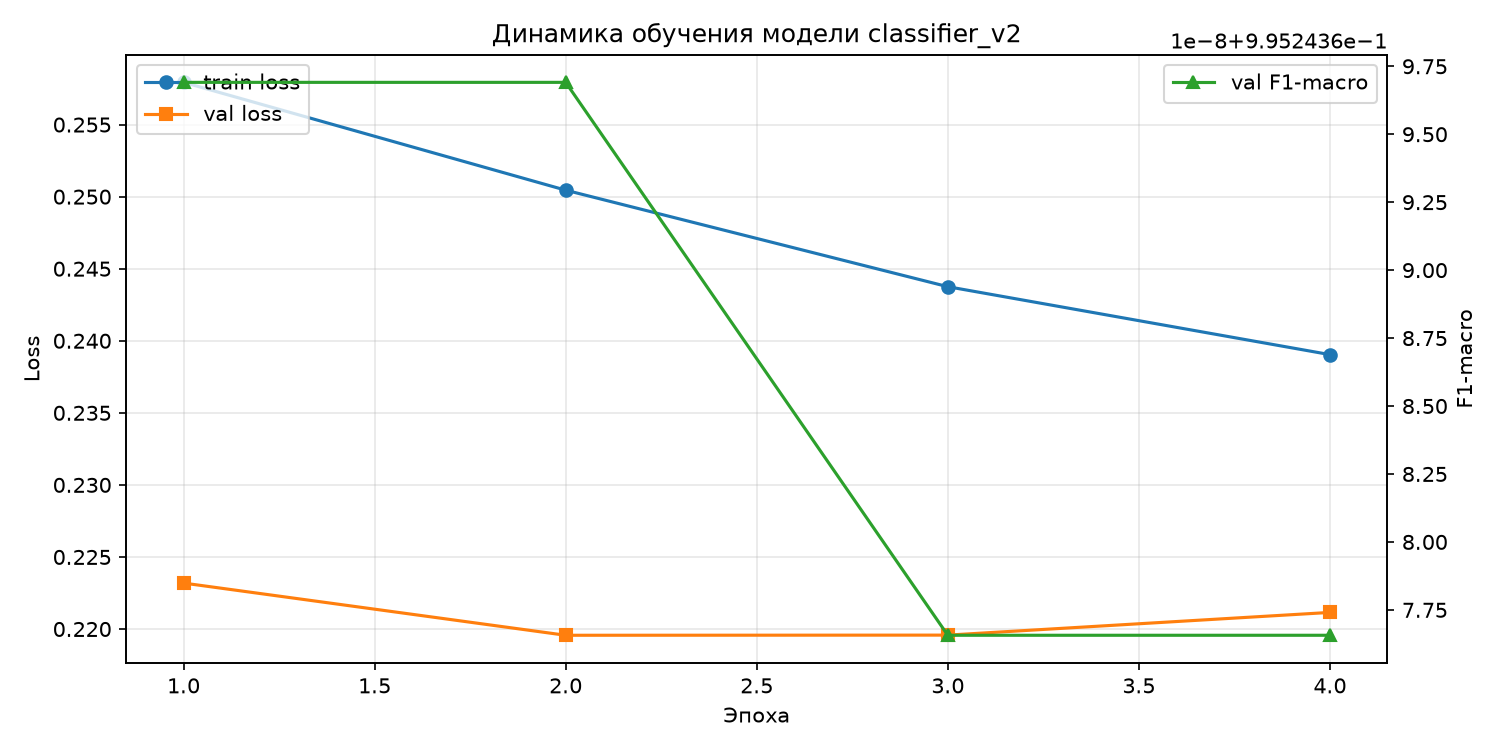
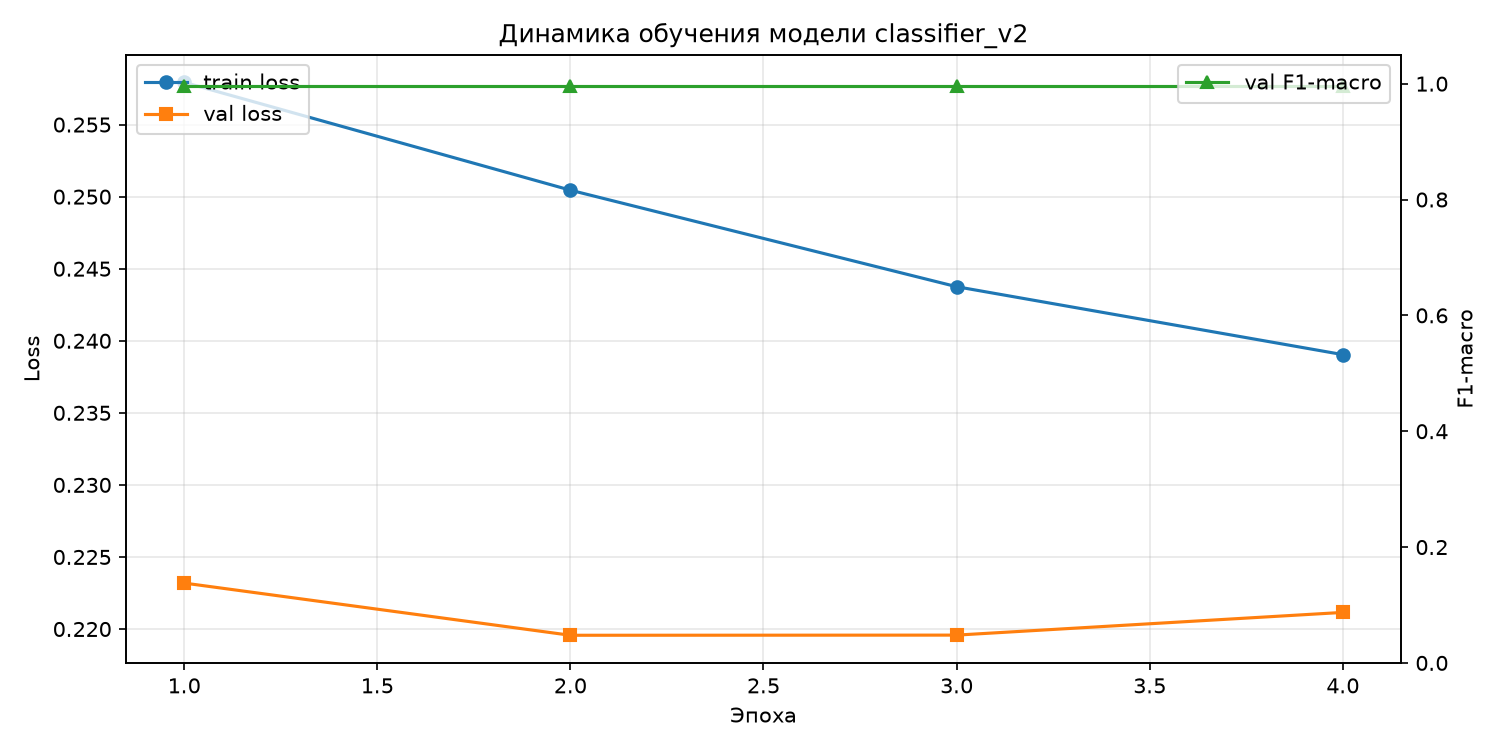
almost there

diff --git a/README.md b/README.md
@@ -1,1 +1,38 @@
-# NeuroScan
+# LUMINAA
+**Цифровой ассистент врача для анализа МРТ головного мозга и поддержки врачебных решений.**
+
+LUMINA — это веб-платформа, которая автоматизирует рутинные этапы диагностики, выстраивает единый клинический цикл между неврологом и рентгенологом и помогает врачу не упустить важные детали. 
+
+## 🎯 Проблема и решение
+**Проблема:** Долгий путь от жалобы до заключения, разрозненность данных (снимки отдельно, бумажные карты отдельно), риск человеческой ошибки при просмотре большого объема снимков.
+**Решение:** Единая цифровая среда, где невролог и рентгенолог работают в одном окне. Система автоматически проверяет качество снимков, выделяет подозрительные области и сверяет текст жалоб с результатами снимков.
+
+## ✨ Ключевые возможности
+
+*   **Две независимые модели:**
+    1.  **Анализ снимков:** Свёрточная нейросеть (ResNet-18) классифицирует МРТ на 4 класса (глиома, менингиома, аденома гипофиза, без опухоли) и строит тепловую карту (Grad-CAM), показывая, на что она смотрела.
+    2.  **Анализ жалоб:** Текстовый алгоритм (TF-IDF + ключевые слова) сопоставляет жалобы пациента с клиническими описаниями и сравнивает свой вывод с результатом нейросети. При расхождении — выдает предупреждение.
+*   **Контроль качества (QC):** Автоматическая отбраковка снимков низкого качества до отправки их в модель.
+*   **Полный клинический цикл:** 
+    Первичный приём (невролог) → Направление на МРТ → Загрузка снимков и заключение (рентгенолог) → Повторный приём и назначение лечения (невролог).
+*   **Разграничение прав (RBAC):** Роли `Администратор`, `Невролог`, `Рентгенолог`. Каждый видит только свои этапы.
+*   **Автогенерация PDF:** Формирование брендированных отчетов для каждого этапа приема.
+*   **Аудит действий:** Журналирование всех операций в системе.
+
+## 🛠 Технологический стек
+*   **Backend:** Python 3.12, Flask, Flask-Login, Flask-SQLAlchemy
+*   **ML/CV:** PyTorch, torchvision, OpenCV, scikit-learn, Grad-CAM
+*   **База данных:** PostgreSQL
+*   **Frontend:** Jinja2, Bootstrap 5, HTML/CSS, Vanilla JS
+*   **PDF:** ReportLab (с поддержкой кириллицы)
+*   **Инфраструктура:** Docker, Docker Compose, Gunicorn
+
+## 📊 Метрики модели классификации
+Модель обучена на открытом датасете Kaggle (Brain Tumor MRI Dataset). 
+*   **Accuracy (Точность):** 98.25%
+*   **F1-macro:** 98.24%
+*   **Лучший класс:** «Без опухоли» (0.993) — минимизирует ложноположительные срабатывания.
+*   **Сложный класс:** «Менингиома» (0.974) — визуально схожа с глиомой.
+
+> *Модель протестирована на 1200 снимках. Результат не является медицинским заключением.*
+
